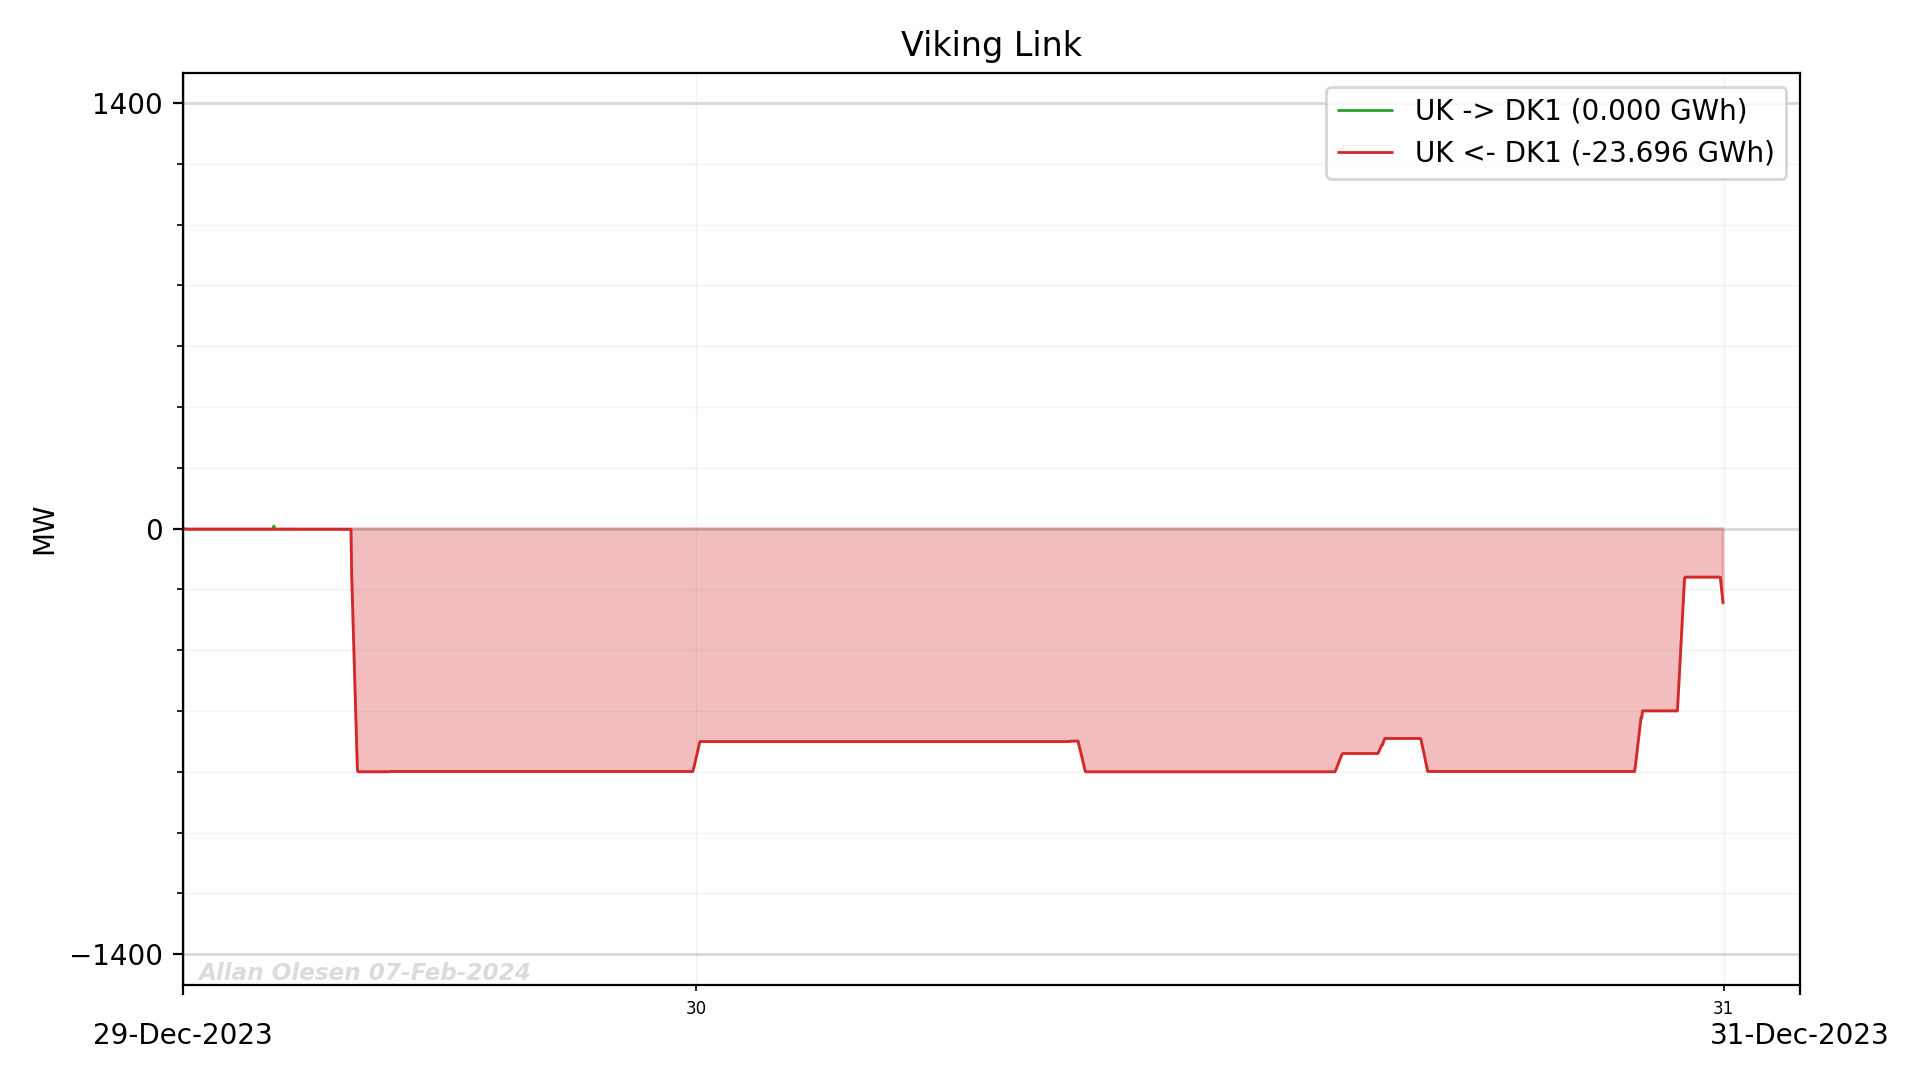
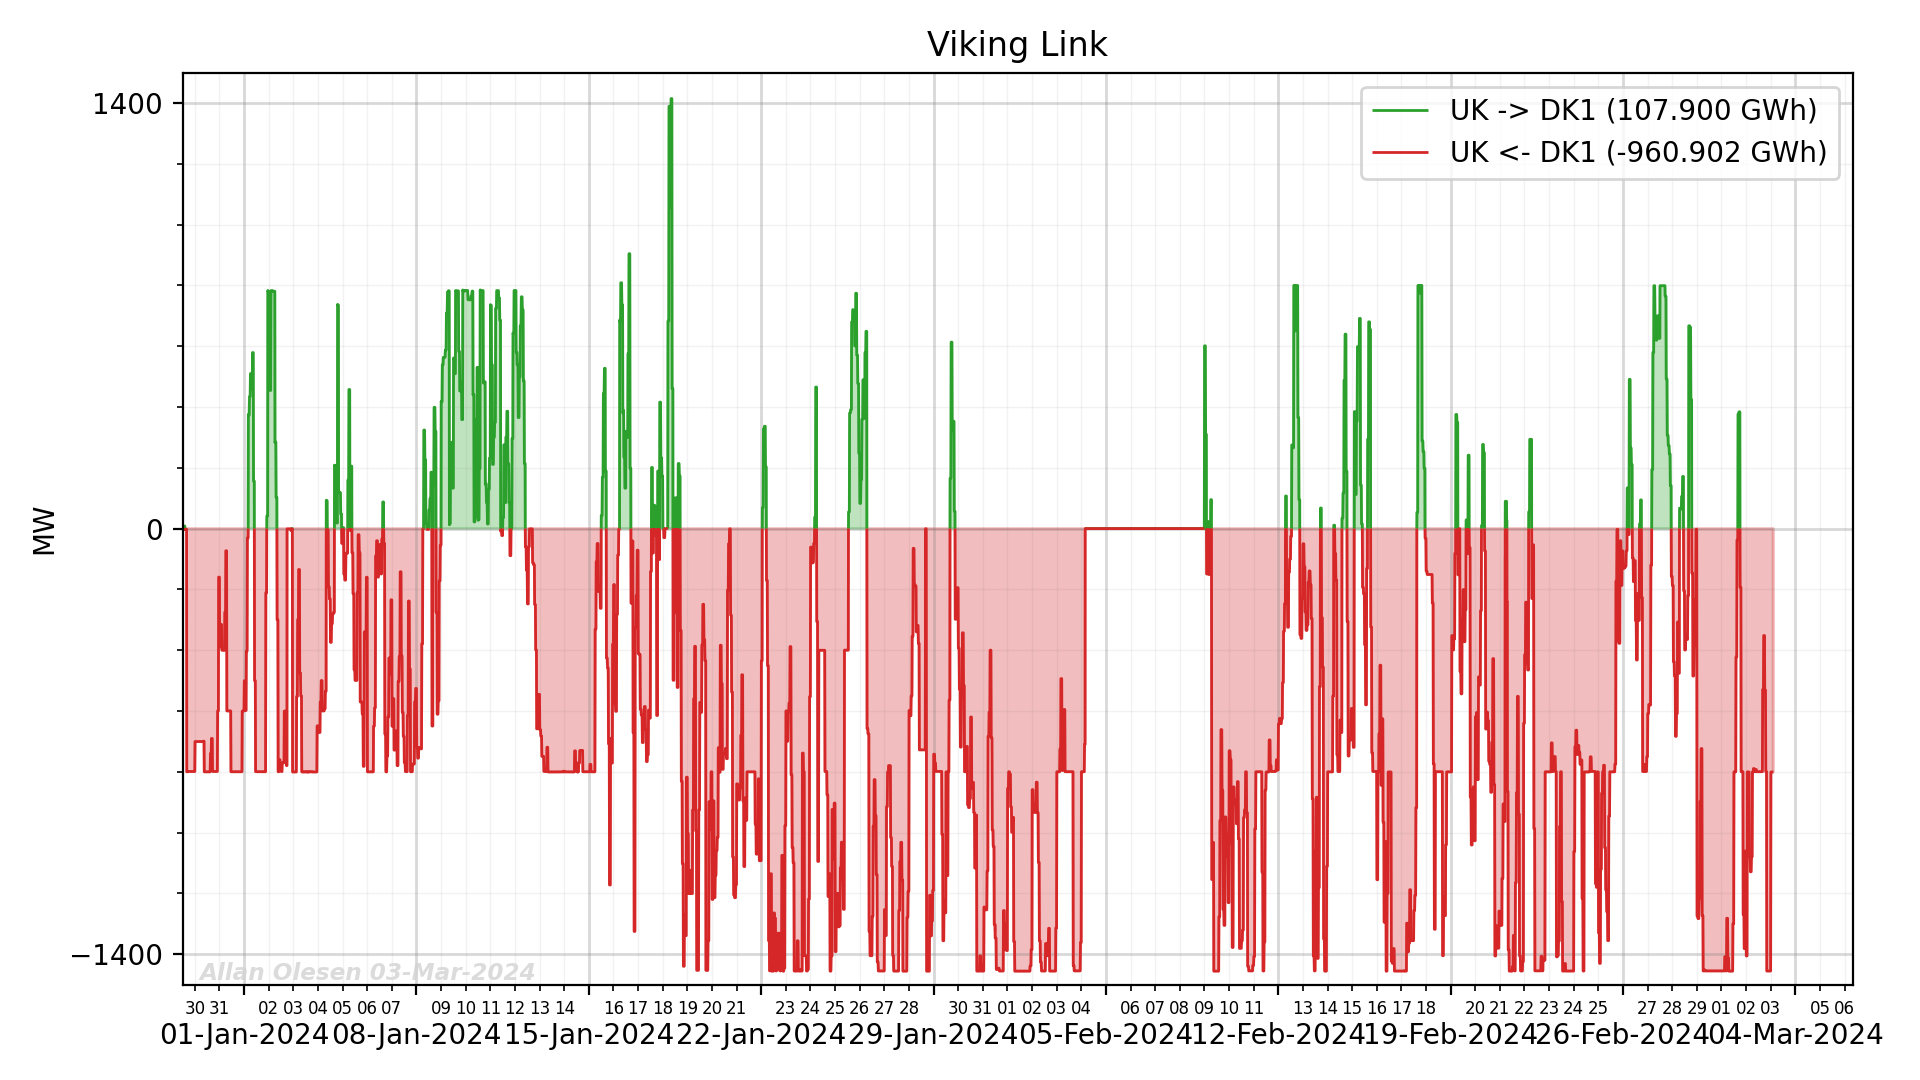
Misc. changes

diff --git a/src/en_data/exchange_uk.py b/src/en_data/exchange_uk.py
@@ -7,6 +7,7 @@ import pandas as pd
 #from typing import Optional
 
 from matplotlib import pyplot as plt
+from matplotlib.axes import Axes
 import matplotlib.dates as mdates
 from datetime import date
 
@@ -26,7 +27,7 @@ rc = RestClient(
     params = {
         'offset': '0',
         'start':  '2023-12-29T12:00',
-        'end':    '2023-12-31T00:00',
+        'end':    '2024-12-31T00:00',
         'sort':   'Minutes1DK',
         #'timezone': 'dk',
     },
@@ -68,11 +69,17 @@ pixelw: int = 1920
 pixelh: int = 1080
 dpi: int = 200
 
-fn = 'uk_exhange.png'
+fn = 'output/uk_exhange.png'
 
 print(counth, countw, pixelw/dpi, pixelh/dpi, dpi)
 
+ax: Axes
+
 fig, ax = plt.subplots(counth, countw, figsize=(pixelw/dpi, pixelh/dpi), dpi=dpi)
+
+#ax = 1
+# A hack to force Docs View and Intellisense to know that the object type of ax
+#ax:Axes=ax
 
 ax.set_title('Viking Link')
 
